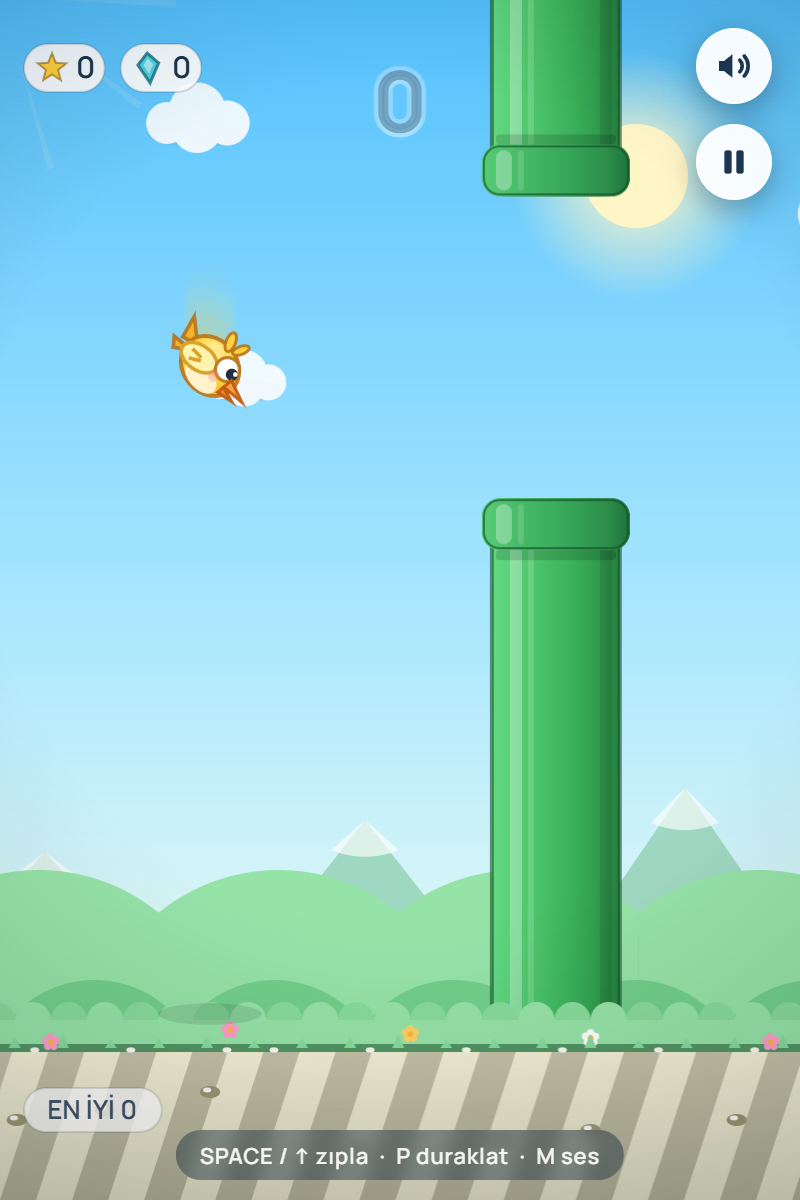
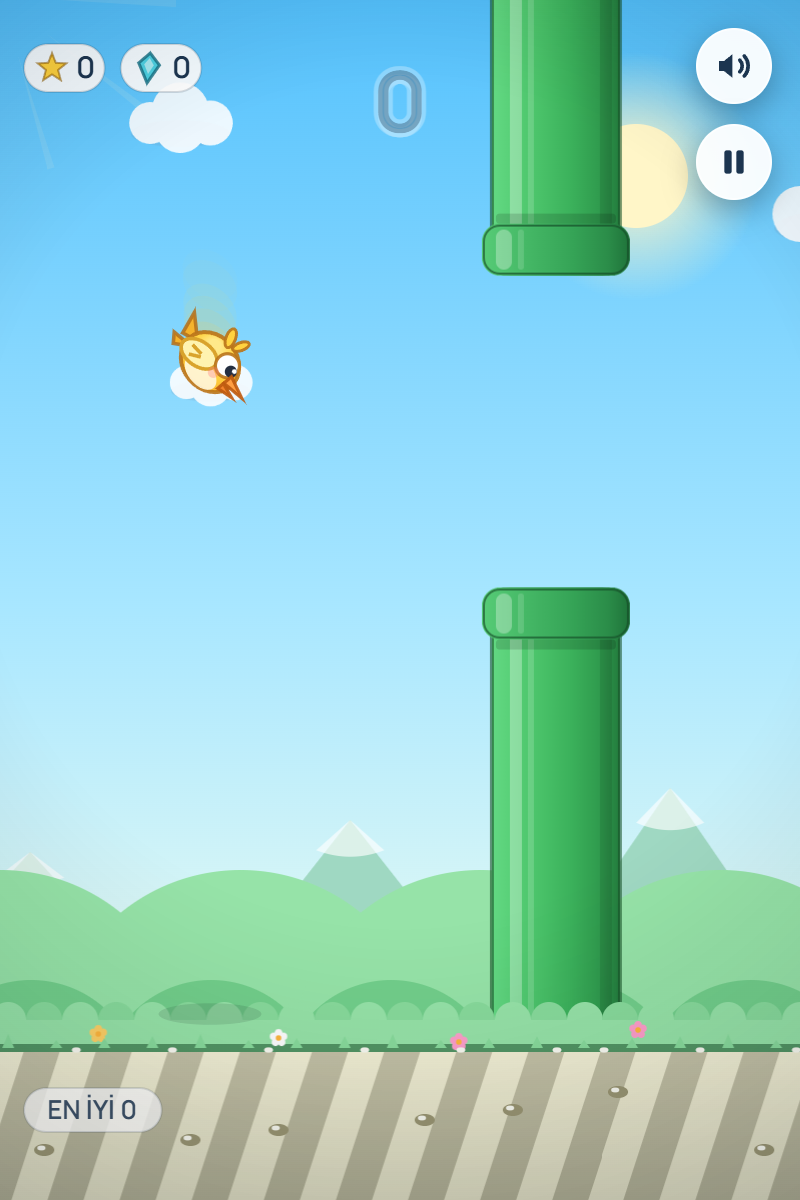
feat: add main menu button to pause screen, fix reverse gravity mode, remove bottom hint bar, update screenshots

diff --git a/index.html b/index.html
@@ -141,24 +141,7 @@
   .ctl:hover { transform: translateY(-2px) scale(1.08); box-shadow: 0 8px 20px rgba(0, 0, 0, .34); }
   .ctl:active { transform: scale(.96); }
   .ctl[disabled] { cursor: default; }
-  #hint {
-    position: fixed;
-    left: 50%;
-    bottom: 12px;
-    transform: translateX(-50%);
-    font-size: 11px;
-    font-weight: 600;
-    color: rgba(255, 255, 255, .92);
-    letter-spacing: .4px;
-    background: rgba(10, 30, 50, .42);
-    padding: 5px 12px;
-    border-radius: 999px;
-    backdrop-filter: blur(4px);
-    pointer-events: none;
-    white-space: nowrap;
-    z-index: 3;
-  }
-  @media (pointer: coarse) { #hint { display: none; } }
+  
   @media (pointer: coarse), (max-width: 640px), (max-height: 680px) {
     canvas, body[data-theme="dark"] canvas, body[data-theme="amoled"] canvas { border-radius: 0; box-shadow: none; margin: 0; }
   }
@@ -171,7 +154,7 @@
     <button id="btnSound" class="ctl" aria-label="Sesi aç veya kapat"></button>
     <button id="btnPause" class="ctl" aria-label="Duraklat veya devam et"></button>
   </div>
-  <div id="hint">SPACE / ↑ zıpla &nbsp;·&nbsp; P duraklat &nbsp;·&nbsp; M ses</div>
+  
 </div>
 <script>
 (() => {
@@ -181,7 +164,6 @@
   const ctx = canvas.getContext('2d');
   const stage = document.getElementById('stage');
   const uiRoot = document.getElementById('ui');
-  const hint = document.getElementById('hint');
   const btnSound = document.getElementById('btnSound');
   const btnPause = document.getElementById('btnPause');
 
@@ -698,6 +680,7 @@
     luck: { day: '', tours: 0, wheelFreeUsed: false, coinStreak: 0, levels: {}, misses: {} },
     top: [],                      // { s, m, d } Top 10
     mbest: { klasik: best, zaman: 0, zen: 0, ters: 0, gunluk: 0 },
+    mode: 'klasik',
     perm: { kalkan: false, can: false },
     convDay: '', convCount: 0,
     threshold: [],                // ulaşılan 100'ler: [100, 200, ...]
@@ -734,6 +717,7 @@
       if (!Array.isArray(SAVE.top)) SAVE.top = [];
       SAVE.mbest = Object.assign({ klasik: best, zaman: 0, zen: 0, ters: 0, gunluk: 0 }, (SAVE.mbest && typeof SAVE.mbest === 'object') ? SAVE.mbest : {});
       SAVE.mbest.klasik = Math.max(SAVE.mbest.klasik || 0, best);
+      SAVE.mode = (raw.mode && CONFIG.modes.some(m => m.id === raw.mode)) ? raw.mode : 'klasik';
       SAVE.perm = Object.assign({ kalkan: false, can: false }, (SAVE.perm && typeof SAVE.perm === 'object') ? SAVE.perm : {});
       SAVE.perm.kalkan = !!SAVE.perm.kalkan; SAVE.perm.can = !!SAVE.perm.can;
       if (!Array.isArray(SAVE.threshold)) SAVE.threshold = [];
@@ -909,7 +893,7 @@
   let shopOpenedAt = 0;
 
   /* v4 state */
-  let mode = 'klasik';           // CONFIG.modes id
+  let mode = (SAVE.mode && CONFIG.modes.some(m => m.id === SAVE.mode)) ? SAVE.mode : 'klasik';           // CONFIG.modes id
   let screenAt = 0;              // ekran açılma zamanı (animasyon)
   let runTime = 60;              // Zamana Karşı kalan süre
   let gravDir = 1, gravFlipT = 8, gravWarn = 0; // ters yerçekimi
@@ -969,7 +953,7 @@
     gameOverAt = 0; scorePop = 0; scoreIdleT = 0; shakeT = 0; shakeMag = 0; flashA = 0;
     isNewBest = false;
     active = null; slowPipes = 0; x2Pipes = 0; invT = 0; // armed is kept across runs
-    runTime = 60; gravDir = 1; gravFlipT = 8; gravWarn = 0;
+    runTime = 60; gravDir = (mode === 'ters') ? -1 : 1; gravFlipT = 8; gravWarn = 0;
     combo = 0; comboMul = 1; perfCount = 0; comboTxtT = 0; comboTxt = '';
     boss = null; bossNext = CONFIG.boss.every;
     bossPending = false; bossPendingT = 0; bossWarned = false; birdShotT = 0; clearShots();
@@ -1040,7 +1024,6 @@
     if (!r.width || !r.height) return;
     uiRoot.style.top = Math.round(r.top + 14) + 'px';
     uiRoot.style.right = Math.round(Math.max(0, window.innerWidth - r.right) + 14) + 'px';
-    hint.style.bottom = Math.round(Math.max(0, window.innerHeight - r.bottom) + 10) + 'px';
   }
 
   function fit() {
@@ -1299,7 +1282,16 @@
     puShown = {};
     rainT = 0; timeScale = 1; deathSlowT = 0; zoomT = 0;
     extraCan = 0; startBoostT = 0; permUsed = false;
-    gravDir = 1; gravFlipT = 8; gravWarn = 0;
+    if (mode === 'ters') {
+      gravDir = -1;
+      gravFlipT = 8;
+      gravWarn = 0;
+      addFloat(W / 2, 210, '🔼 TERS YERÇEKİMİ AKTİF!', '#c084fc');
+    } else {
+      gravDir = 1;
+      gravFlipT = 8;
+      gravWarn = 0;
+    }
     runTime = 60;
     seedDaily();
     lastGapCenter = null;
@@ -1318,7 +1310,7 @@
     }
     if (SAVE.perm.kalkan) puShow('🛡 KALKAN HAZIR', '#4d96ff');
     if (SAVE.perm.can) { extraCan += 1; puShow('❤ +1 CAN', '#ff6b6b'); }
-    bird.vy = FLAP;
+    bird.vy = FLAP * gravDir;
     bird.wing = 0;
     bird.sq = 1;
     bird.landed = false;
@@ -1365,8 +1357,6 @@
     btnPause.disabled = !on;
     const showChrome = state === 'ready' || state === 'playing' || state === 'paused';
     uiRoot.style.display = showChrome ? 'flex' : 'none';
-    const coarse = window.matchMedia && window.matchMedia('(pointer: coarse)').matches;
-    hint.style.display = showChrome && !coarse ? 'block' : 'none';
   }
 
   /* ---------------- world ---------------- */
@@ -1851,7 +1841,7 @@
           gravFlipT = 8;
           gravWarn = 0;
           flashA = .4; shakeT = .3; shakeMag = 4;
-          addFloat(W / 2, 210, gravDir < 0 ? '↑ YERÇEKİMİ TERS!' : '↓ YERÇEKİMİ NORMAL', gravDir < 0 ? '#c084fc' : '#4d96ff');
+          addFloat(W / 2, 210, gravDir < 0 ? '🔼 YERÇEKİMİ TERS!' : '🔽 YERÇEKİMİ NORMAL!', gravDir < 0 ? '#c084fc' : '#4d96ff');
           sFlip(); setVib(80);
         }
       }
@@ -3203,7 +3193,7 @@
     ctx.fillText(bn + ' · ' + boss.hp + ' can', cx, cy + 56);
     ctx.restore();
   }
-
+
   function drawShots() {
     if (!shots.length) return;
     ctx.save();
@@ -3225,9 +3215,9 @@
       ctx.fill();
     }
     ctx.restore();
-  }
+  }
 
-  function drawComboText() {
+  function drawComboText() {
     if (comboTxtT <= 0) return;
     const k = comboTxtT / 1.1;
     ctx.save();
@@ -3441,6 +3431,7 @@
   }
 
   function drawBirdShadow() {
+    if (mode === 'ters' && gravDir < 0) return;
     const d = Math.max(0, Math.min(1, (FLOOR - bird.y) / FLOOR));
     ctx.save();
     ctx.fillStyle = 'rgba(25, 50, 35, ' + (.05 + .22 * (1 - d)).toFixed(3) + ')';
@@ -3688,9 +3679,10 @@
     ctx.rotate(bird.rot);
     // Oyun içi güç ölçeği (mini/dev) + squash & stretch on flap
     const bs = birdScale();
-    ctx.scale(bs * (1 - .13 * bird.sq), bs * (1 + .22 * bird.sq));
+    const sy = (mode === 'ters' && gravDir < 0) ? -1 : 1;
+    ctx.scale(bs * (1 - .13 * bird.sq), bs * (1 + .22 * bird.sq) * sy);
 
-    paintBird(currentSkin(), Math.sin(bird.wing) * (bird.vy < 0 ? .85 : .35) - .12, bird.blink > 0);
+    paintBird(currentSkin(), Math.sin(bird.wing) * (bird.vy * gravDir < 0 ? .85 : .35) - .12, bird.blink > 0);
 
     ctx.restore();
 
@@ -3949,6 +3941,25 @@
       ctx.fillStyle = warnTime ? '#ffffff' : sk.chipText;
       ctx.fillText(bt, W / 2, 93);
       ctx.restore();
+    } else if (mode === 'ters') {
+      ctx.save();
+      ctx.textAlign = 'center';
+      ctx.textBaseline = 'middle';
+      ctx.font = FONTS.f600_13;
+      const isTers = gravDir < 0;
+      const sec = Math.ceil(gravFlipT);
+      const bt = isTers ? ('🔼 TERS (' + sec + 's)') : ('🔽 NORMAL (' + sec + 's)');
+      const tw = textWidth(bt);
+      ctx.fillStyle = isTers ? 'rgba(192, 132, 252, .32)' : sk.chipBg;
+      roundRect(W / 2 - tw / 2 - 12, 82, tw + 24, 22, 11);
+      ctx.fill();
+      ctx.strokeStyle = isTers ? '#c084fc' : sk.border;
+      ctx.lineWidth = 1.2;
+      roundRect(W / 2 - tw / 2 - 12, 82, tw + 24, 22, 11);
+      ctx.stroke();
+      ctx.fillStyle = isTers ? '#f3e8ff' : sk.chipText;
+      ctx.fillText(bt, W / 2, 93);
+      ctx.restore();
     } else {
       ctx.save();
       ctx.globalAlpha = 0.85;
@@ -4012,7 +4023,7 @@
         ctx.globalAlpha = .85;
         ctx.font = '700 16px ' + FONT;
         ctx.fillStyle = '#c084fc';
-        ctx.fillText(gravDir < 0 ? '↑↑ DİKKAT: TERS DÖNÜYOR ↑↑' : '↓↓ DİKKAT: NORMAL DÖNÜYOR ↓↓', W / 2, 150);
+        ctx.fillText(gravDir < 0 ? '↓↓ DİKKAT: NORMAL DÖNÜYOR ↓↓' : '↑↑ DİKKAT: TERS DÖNÜYOR ↑↑', W / 2, 150);
         ctx.restore();
       }
     }
@@ -4473,28 +4484,57 @@
     ctx.fillStyle = sk.overlay;
     ctx.fillRect(0, -UI_OY, W, H);
 
-    panel(100, 225, 200, 152, 22, sk.panel);
+    panel(90, 204, 220, 192, 22, sk.panel);
 
     // Pause icon in a circle
     ctx.fillStyle = sk.panelSoft;
-    ctx.beginPath(); ctx.arc(200, 262, 26, 0, Math.PI * 2); ctx.fill();
+    ctx.beginPath(); ctx.arc(200, 240, 24, 0, Math.PI * 2); ctx.fill();
     ctx.fillStyle = sk.text;
-    roundRect(191, 251, 6.5, 22, 3); ctx.fill();
-    roundRect(202.5, 251, 6.5, 22, 3); ctx.fill();
+    roundRect(192, 230, 6, 20, 3); ctx.fill();
+    roundRect(202, 230, 6, 20, 3); ctx.fill();
 
     ctx.textAlign = 'center';
     ctx.textBaseline = 'middle';
     ctx.font = '700 17px ' + FONT;
     ctx.fillStyle = sk.text;
-    ctx.fillText('DURAKLATILDI', 200, 306);
-    ctx.fillStyle = sk.textDim;
-    ctx.font = FONTS.f500_11;
-    ctx.fillText('P / ESC / DOKUN', 200, 326);
+    ctx.fillText('DURAKLATILDI', 200, 278);
 
-    // Continue pill (3 duraklı gradient + scale .96)
-    ctx.globalAlpha = .8 + .2 * Math.sin(performance.now() / 260);
-    drawBtn(146, 344, 108, 28, 16, CONFIG.gradients.btnSuccess, 'DEVAM ▶', '#ffffff', FONTS.f600_12);
+    // DEVAM button (green gradient)
+    ctx.globalAlpha = .85 + .15 * Math.sin(performance.now() / 260);
+    drawBtn(110, 302, 180, 34, 17, CONFIG.gradients.btnSuccess, 'DEVAM ▶', '#ffffff', FONTS.f700_13);
     ctx.globalAlpha = 1;
+
+    // ANA MENÜ button (panel style)
+    ctx.save();
+    ctx.fillStyle = sk.panelSoft;
+    roundRect(110, 346, 180, 32, 16);
+    ctx.fill();
+    ctx.strokeStyle = sk.border;
+    ctx.lineWidth = 1;
+    roundRect(110, 346, 180, 32, 16);
+    ctx.stroke();
+    ctx.fillStyle = sk.text;
+    ctx.font = FONTS.f600_12;
+    ctx.fillText('🏠 ANA MENÜ', 200, 362.5);
+    ctx.restore();
+  }
+
+  function pausedTap(px, py) {
+    // DEVAM butonu (110..290, 302..336)
+    if (px >= 110 && px <= 290 && py >= 302 && py <= 336) {
+      togglePause();
+      return true;
+    }
+    // ANA MENÜ butonu (110..290, 346..378)
+    if (px >= 110 && px <= 290 && py >= 346 && py <= 378) {
+      sClick();
+      recordRunResults();
+      reset();
+      return true;
+    }
+    // Dışarıya tıklanınca oyuna devam et
+    togglePause();
+    return true;
   }
 
   /* ---------------- game over ---------------- */
@@ -5415,6 +5455,8 @@
       const bx = 46, by = 138 + i * 74;
       if (px >= bx && px <= bx + 308 && py >= by && py <= by + 64) {
         mode = CONFIG.modes[i].id;
+        SAVE.mode = mode;
+        saveSave();
         sClick(); setVib(20);
         closeScreen();
         return true;
@@ -10451,7 +10493,7 @@ return qrcode;
       flap();
       return;
     }
-    if (state === 'paused') { togglePause(); return; }
+    if (state === 'paused') { pausedTap(p.x, p.y); return; }
     if (state === 'gameover') {
       if (gameoverTapExtra(p.x, p.y)) return;
       if (performance.now() - gameOverAt > 500) flap();   // başka yere dokun → yeniden başla
